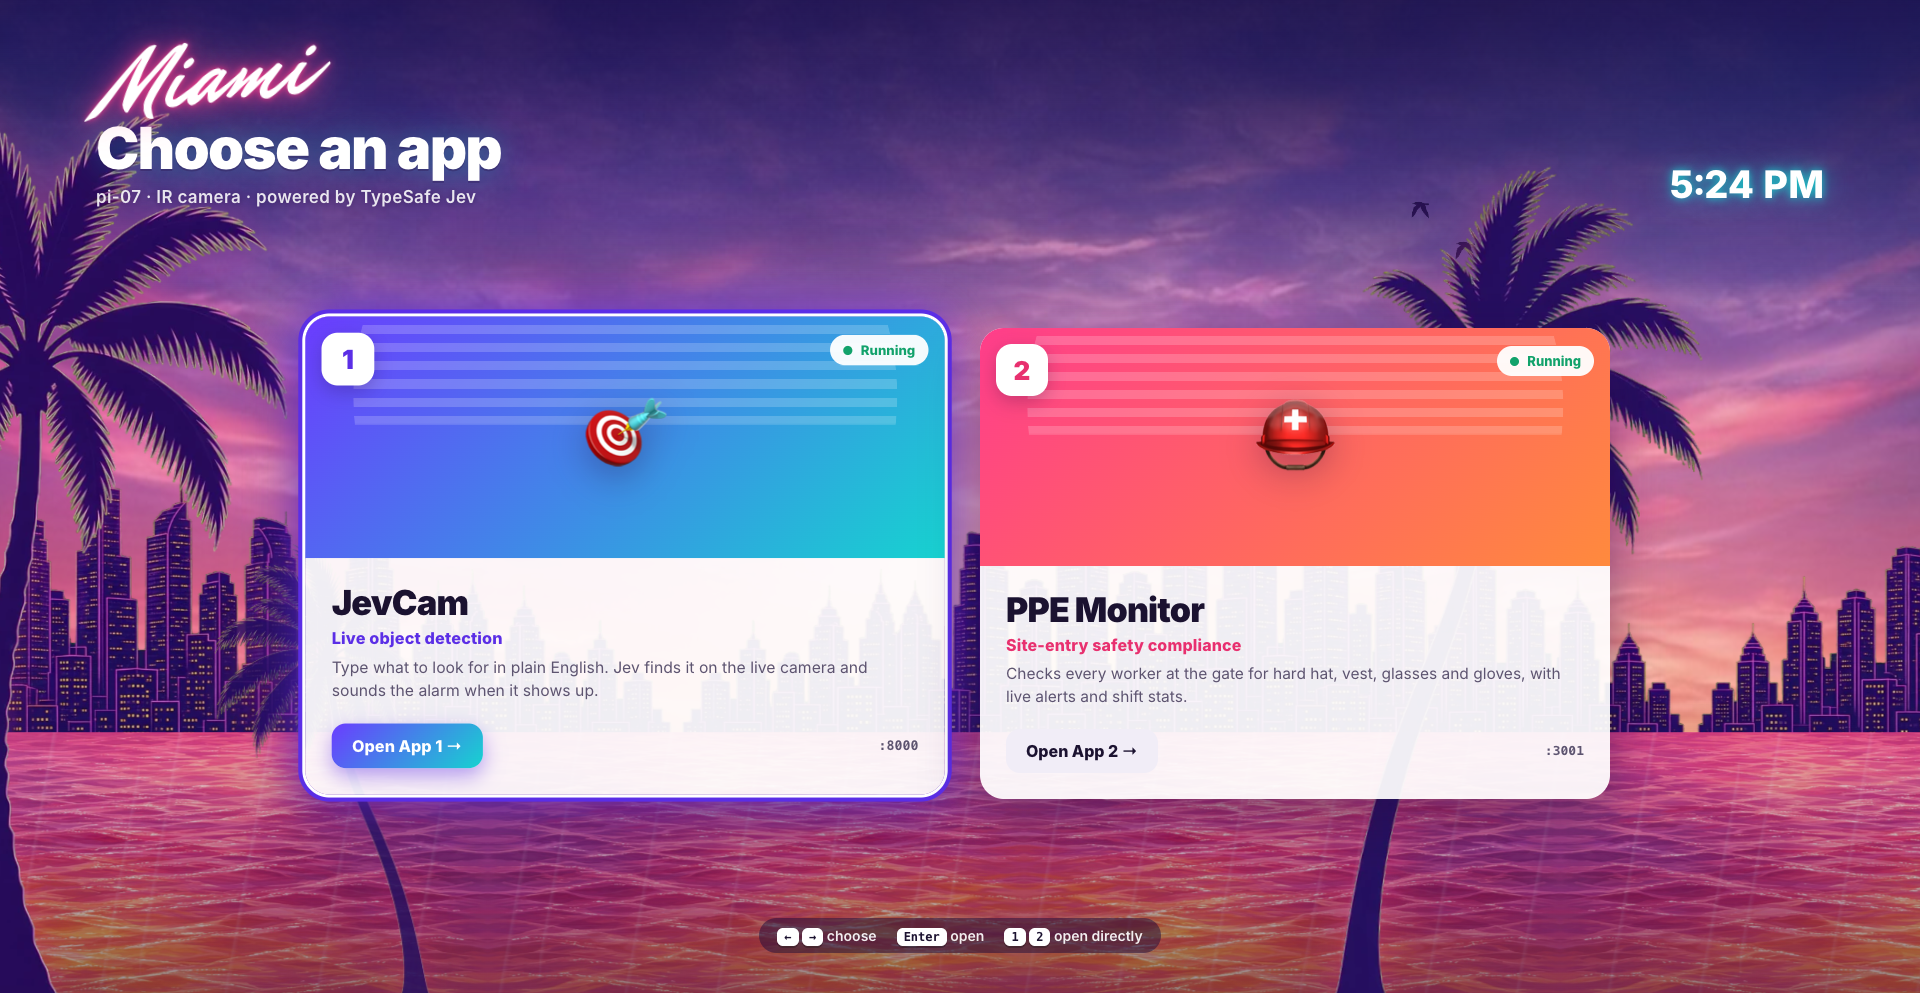
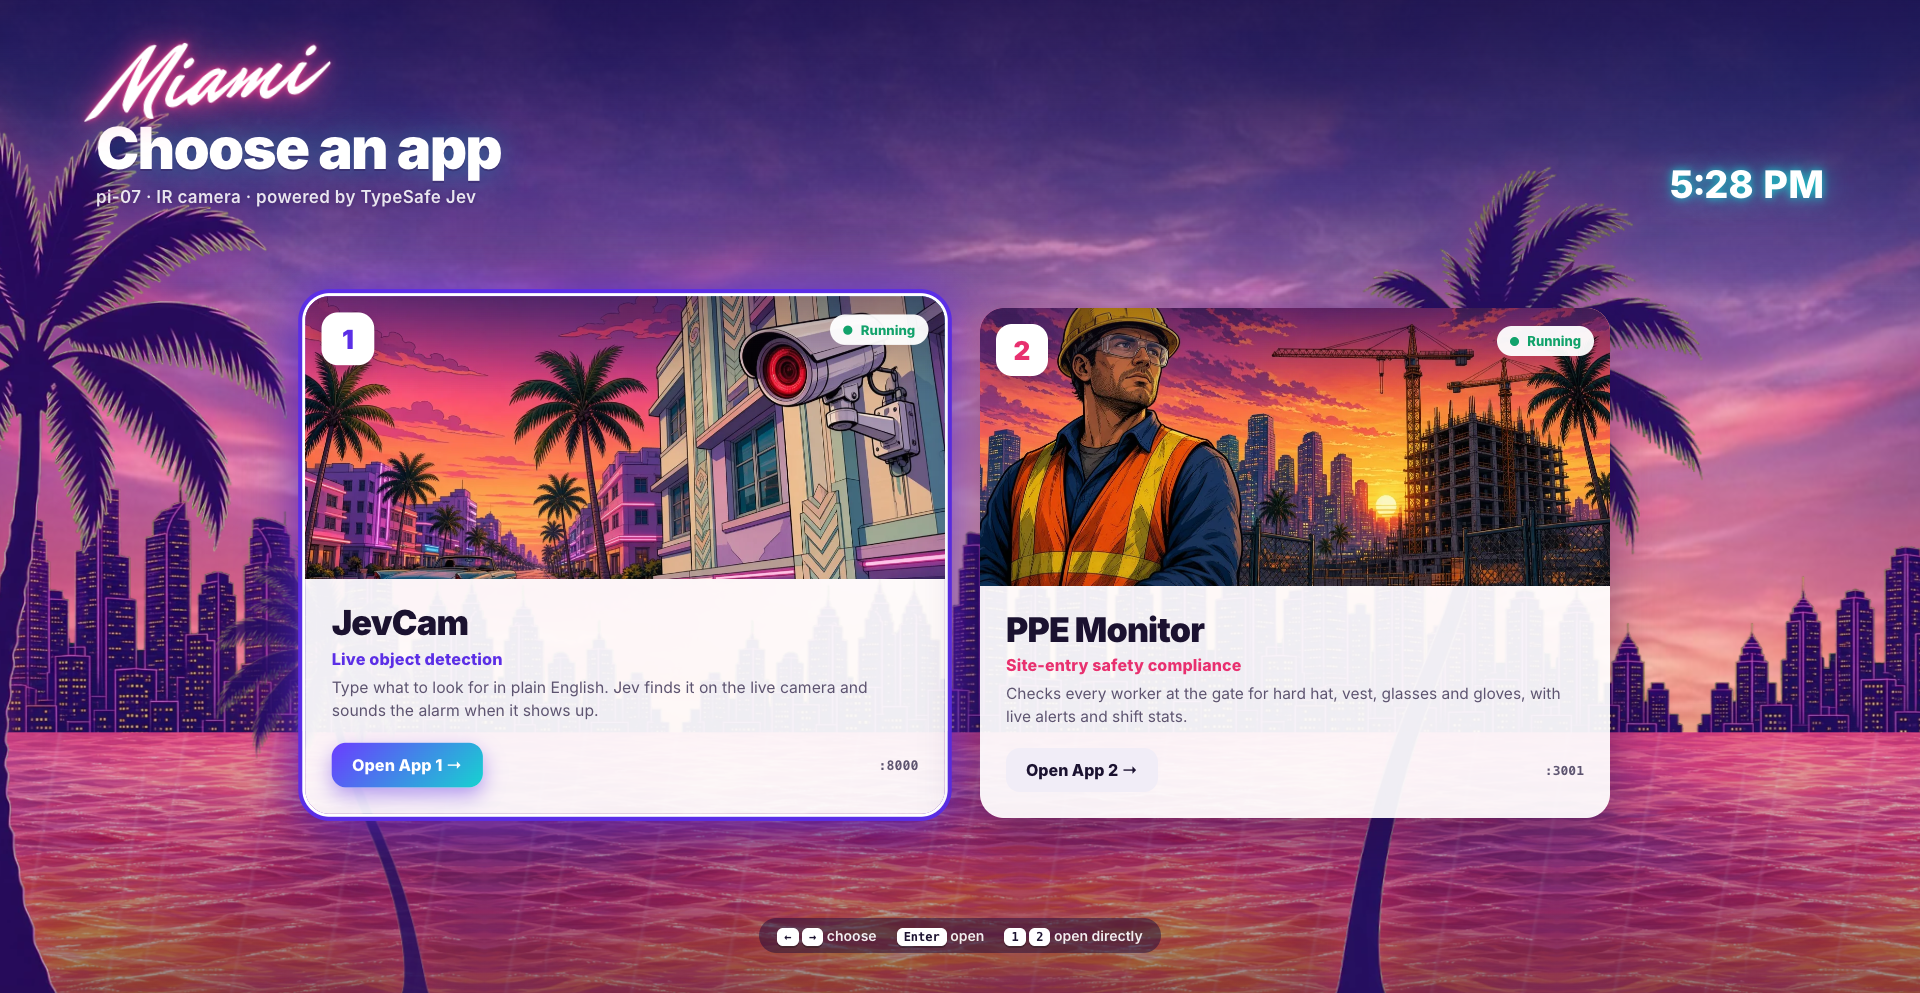
chooser: GTA-style card art for each app

Changed region(s): [[0.0, 0.281, 0.8438, 0.8741], [0.8438, 0.5619, 1.0, 0.7492]]

diff --git a/chooser/index.html b/chooser/index.html
@@ -87,16 +87,21 @@
     box-shadow:0 0 0 3px #fff,0 0 0 7px var(--accent),0 0 46px 6px color-mix(in srgb,var(--accent) 70%,transparent),0 26px 60px rgba(43,10,70,.5)}
   .card:focus-visible{outline:none}
   .card.down .art .ic{filter:grayscale(1);opacity:.55}
-  .art{position:relative;height:clamp(120px,24vh,250px);background:linear-gradient(135deg,var(--g1),var(--g2));overflow:hidden}
+  .art{position:relative;height:clamp(140px,28vh,300px);background:linear-gradient(135deg,var(--g1),var(--g2));overflow:hidden}
   .art::before{content:"";position:absolute;left:50%;bottom:-45%;width:85%;aspect-ratio:1;translate:-50% 0;border-radius:50%;
     background:repeating-linear-gradient(180deg,rgba(255,255,255,.35) 0 9px,rgba(255,255,255,0) 9px 18px);
     mask:linear-gradient(180deg,#000 0%,#000 55%,transparent 56%);opacity:.55}
+  .art img.cover{position:absolute;inset:0;width:100%;height:100%;object-fit:cover;animation:kenburns 18s ease-in-out infinite alternate}
+  @keyframes kenburns{to{transform:scale(1.12)}}
+  .art.has-img::before{display:none}
+  .art.has-img::after{content:"";position:absolute;inset:0;background:linear-gradient(180deg,rgba(20,8,40,.35) 0%,rgba(20,8,40,0) 35%)}
+  .card.down .art img.cover{filter:grayscale(1) brightness(.7)}
   .art .ic{position:absolute;inset:0;display:grid;place-items:center;font-size:clamp(56px,8vh,96px);
     filter:drop-shadow(0 10px 18px rgba(40,10,60,.35));animation:float 4s ease-in-out infinite}
   @keyframes float{50%{translate:0 -8px}}
-  .num{position:absolute;top:16px;left:16px;width:52px;height:52px;border-radius:16px;background:#fff;color:var(--accent);
+  .num{position:absolute;z-index:1;top:16px;left:16px;width:52px;height:52px;border-radius:16px;background:#fff;color:var(--accent);
     display:grid;place-items:center;font:900 26px Inter,sans-serif;box-shadow:0 6px 18px rgba(40,10,60,.25)}
-  .status{position:absolute;top:18px;right:16px;display:flex;align-items:center;gap:8px;padding:7px 13px;border-radius:999px;
+  .status{position:absolute;z-index:1;top:18px;right:16px;display:flex;align-items:center;gap:8px;padding:7px 13px;border-radius:999px;
     font:800 13px Inter,sans-serif;background:rgba(255,255,255,.95);color:var(--muted)}
   .status i{width:9px;height:9px;border-radius:50%;background:currentColor}
   .status.up{color:var(--ok)} .status.down{color:var(--down)}
@@ -194,8 +199,8 @@ function render(){
     const [g1, g2, accent] = PALETTE[i % PALETTE.length];
     return `
     <button class="card" id="card-${a.id}" data-i="${i}" style="--g1:${g1};--g2:${g2};--accent:${accent}" aria-label="Open ${esc(a.name)}">
-      <div class="art">
-        <div class="ic">${a.icon || ""}</div>
+      <div class="art${a.image ? " has-img" : ""}">
+        ${a.image ? `<img class="cover" src="/assets/${esc(a.image)}" style="object-position:${esc(a.imagePos || "center")}" alt="">` : `<div class="ic">${a.icon || ""}</div>`}
         <span class="num">${i + 1}</span>
         <span class="status" id="st-${a.id}"><i></i><span>checking&hellip;</span></span>
       </div>

diff --git a/chooser/assets-src/gen.py b/chooser/assets-src/gen.py
@@ -63,5 +63,20 @@ def run(name, aspect, src, prompt):
     print(f"saved {name} ({time.time() - t:.0f}s)")
 
 
-for job in JOBS:
+STYLE = ("Illustrated in the style of a classic open-world crime game loading screen from the 2000s Vice City era: "
+         "bold black ink outlines, cel-shaded comic-book shading, saturated sunset palette of hot pink, orange, "
+         "teal and purple, dramatic low angle. No text, no letters, no logos, no watermark, no real people.")
+CARD_JOBS = [
+    ("card_jevcam", "16:9", None,
+     "A sleek white security camera with a glowing red lens mounted on the corner of a pastel Art Deco hotel on "
+     "Ocean Drive, Miami Beach, at sunset, scanning the street below, palm trees, neon signs glowing, a vintage "
+     "convertible cruising past. " + STYLE),
+    ("card_ppe", "16:9", None,
+     "A confident construction worker in a bright yellow hard hat, high-visibility orange safety vest, safety "
+     "glasses and work gloves, standing at the gate of a Miami high-rise construction site at sunset, tower cranes "
+     "and the downtown skyline behind, palm trees. " + STYLE),
+]
+
+import sys
+for job in (CARD_JOBS if "cards" in sys.argv else JOBS):
     run(*job)
